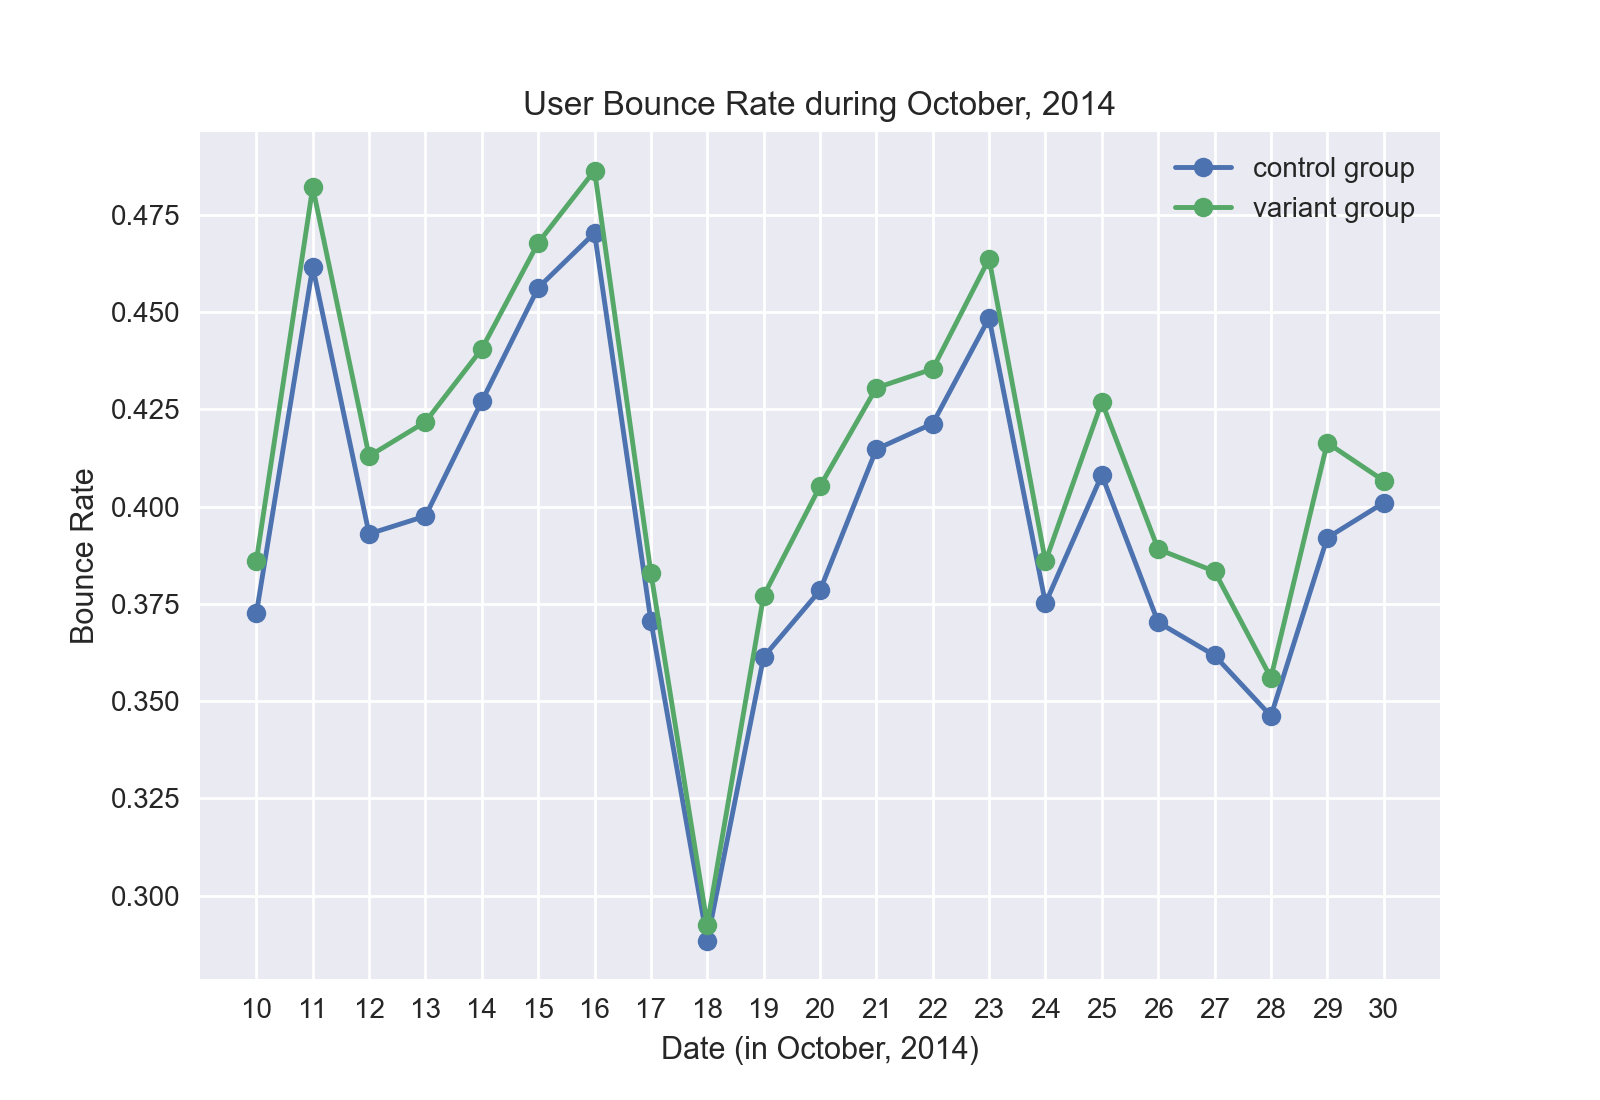
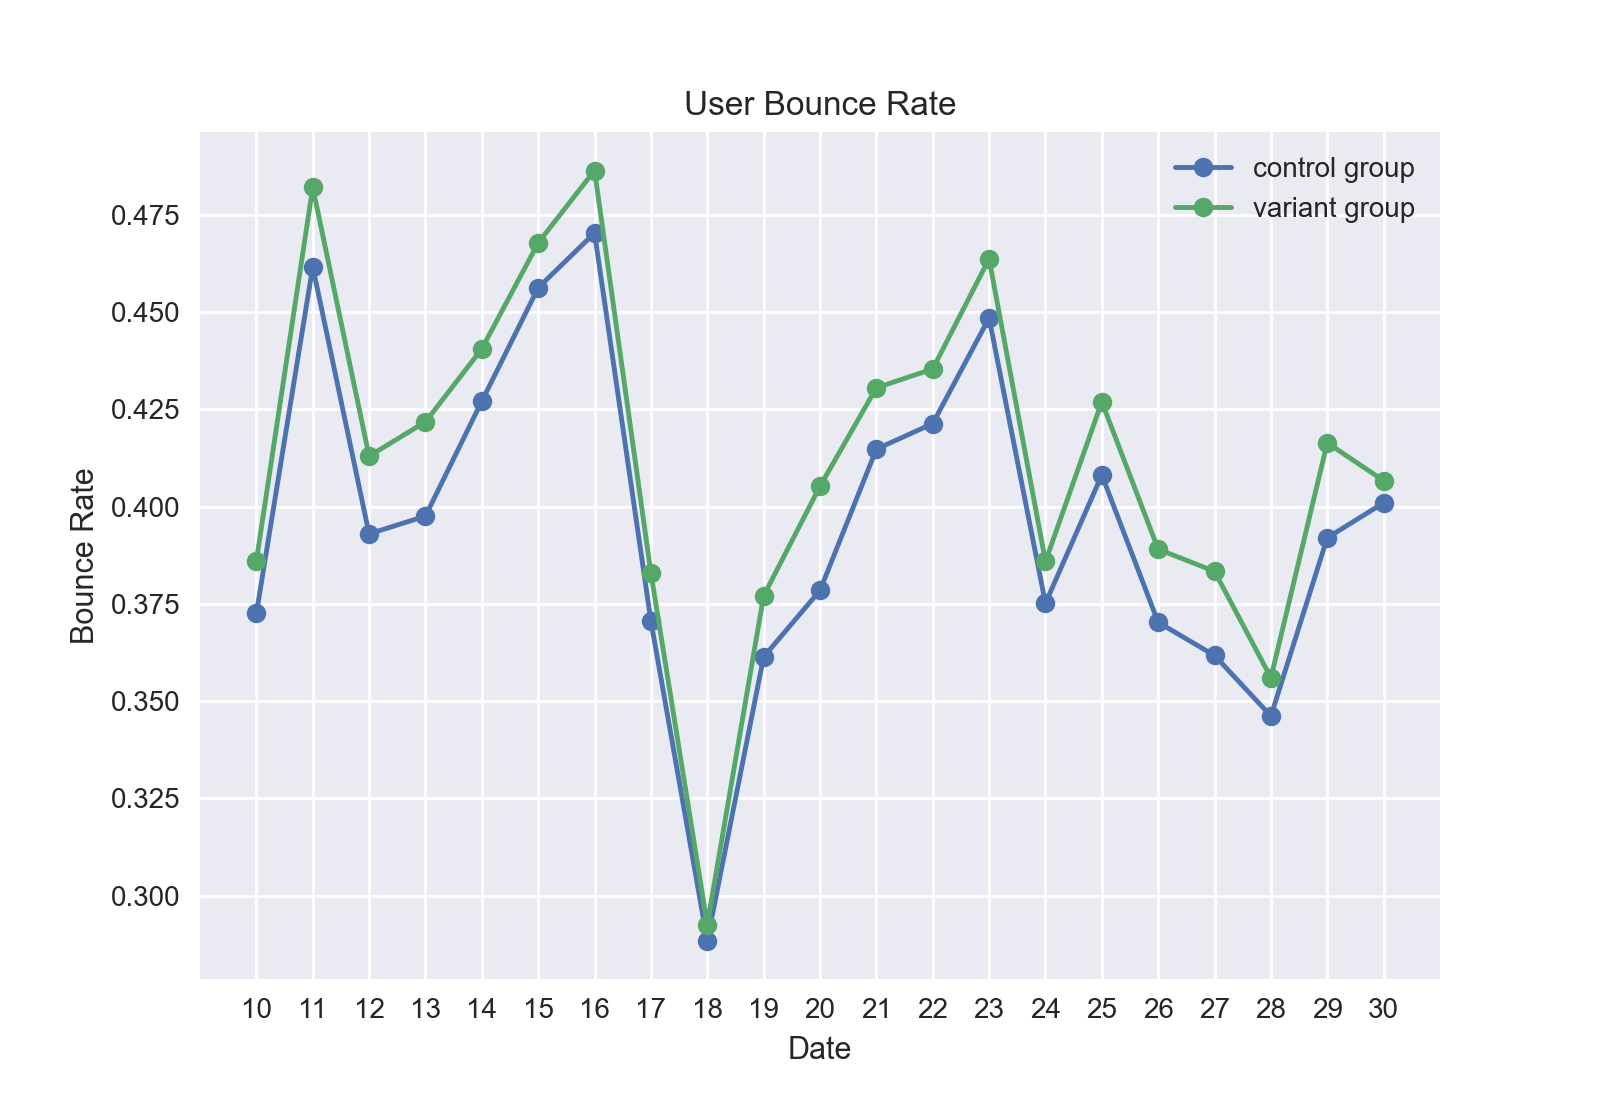
fix code to generate metrics combined

Changed region(s): [[0.3438, 0.0618, 0.6875, 0.1236], [0.4062, 0.9273, 0.625, 0.9582]]

diff --git a/src/plot.py b/src/plot.py
@@ -11,36 +11,24 @@ COLORS = {
 }
 
 
-def metrics_graph(df, series1, series2):
+def metrics_graph(df, x, ys):
 	'''
 	Generate graph showing BOTH metrics combined, control group only.
 	'''
-	metric_to_series = {
-		'conversion': series1,
-		'bounce': series2,
-	}
-	for metric in ('bounce', 'conversion'):
-		series = metric_to_series[metric]
-		x = series.index.values
-		y = [Y[0] for Y in series]
+	for i,metric in enumerate(['conversion', 'bounce']):
 		# plot results
-		# plt.plot(x, y)
-		# line, = plt.plot_date(x, y, linestyle='solid', color=metric_to_color[metric])
-		line, = plt.plot_date(x, y, linestyle='solid',)
-		# make date labels diagonal
-		# plt.gcf().autofmt_xdate()
+		line, = plt.plot_date(x, ys[i], linestyle='solid')
 		# format date strings
 		date_format = mpl_dates.DateFormatter('%d')
 		axes = plt.gca()
 		xaxis = axes.xaxis
 		xaxis.set_major_formatter(date_format)
-		# xaxis.set_major_locator(matplotlib.ticker.Locator())
 		axes.set_xticks(x)
 		# make label for legend
 		line.set_label(f'{metric} rate')
 	# label things
-	plt.title(f'User metrics during October, 2014')
-	plt.xlabel('Date (in October, 2014)')
+	plt.title(f'User metrics')
+	plt.xlabel('Date')
 	plt.ylabel(f'Metric Rate')
 	# add the legend
 	plt.legend()
@@ -72,8 +60,8 @@ def metric_graph(df, metric, series):
 		# make label for legend
 		line.set_label(f'{ab_group} group')
 	# label things
-	plt.title(f'User {metric.capitalize()} Rate during October, 2014')
-	plt.xlabel('Date (in October, 2014)')
+	plt.title(f'User {metric.capitalize()} Rate')
+	plt.xlabel('Date')
 	plt.ylabel(f'{metric.capitalize()} Rate')
 	# add the legend
 	plt.legend()

diff --git a/src/main.py b/src/main.py
@@ -26,7 +26,7 @@ def get_bounce_rate(df, ab_group):
 	num_land_visitors = df[df['Land'] == 1][ab_group].sum()
 	num_bounce_visitors = df[df['Bounce'] == 1][ab_group].sum()
 	bounce_rate = num_bounce_visitors / num_land_visitors
-	return bounce_rate
+	return num_land_visitors, num_bounce_visitors, bounce_rate
 
 
 def get_metric(df, metric, ab_group):
@@ -96,7 +96,10 @@ def plot_metric(df, metric):
 def plot_metrics(df):
 	series1 = compute_stats_for_metric_by_date(df, 'conversion')
 	series2 = compute_stats_for_metric_by_date(df, 'bounce')
-	plot.metrics_graph(df, series1, series2)
+	x = series1.index.values
+	y1 = [Y[0][2] for Y in series1]
+	y2 = [Y[0][2] for Y in series2]
+	plot.metrics_graph(df, x, [y1, y2])
 
 
 def plot_time_series_analysis(df, metric):
@@ -116,7 +119,7 @@ def main():
 	# Uncomment to generate the 'bounce rate' graph
 	# plot_metric(df, 'bounce')
 	# Uncomment to generate the 'conversion/bounce comparison' graph
-	# plot_metrics(df)
+	plot_metrics(df)
 	# Uncomment to generate the stat summary data
 	# compute_stats(df)
 	# Uncomment to plot time series analysis trend graph

diff --git a/README.md b/README.md
@@ -57,7 +57,7 @@ From the periodic behavior we can see that the highest conversion rate occurs on
 
 The results show that the **variant** strategy is worse than our current **control** strategy.  But is the difference statistically significant?
 
-We have two separate groups (the 'A' and 'B' groups of visitors), and we are measuring the same proportion (conversion rate) for each.  This means that we must use a Two Proportion Z-Test to determine the statistical significance.
+We have two separate groups (the "A" and "B" groups of visitors), and we are measuring the same proportion (conversion rate) for each.  This means that we must use a Two Proportion Z-Test to determine the statistical significance.
 
 ## Two Proportion Z-Test
 
@@ -79,10 +79,9 @@ so that
 
     z = 13.726287068516598
 
-so that the p-value is less than 0.00001 (due to our very high n), and thus the result IS statistically significant!  We should therefore revert to the control strategy.
+so that the p-value is less than `0.00001` (mainly due to our very high `n`), and thus the result IS statistically significant!  We should therefore revert to the control strategy.
 
 
-IS THERE more data you would like to consider before deciding?
 
 
 
